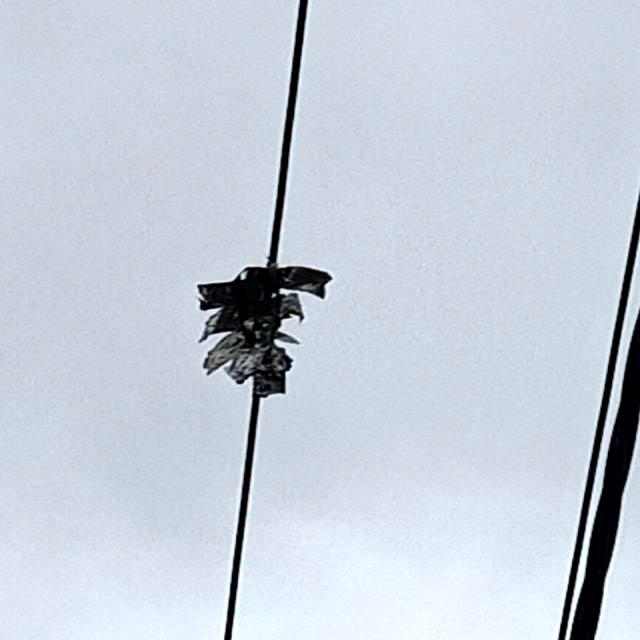
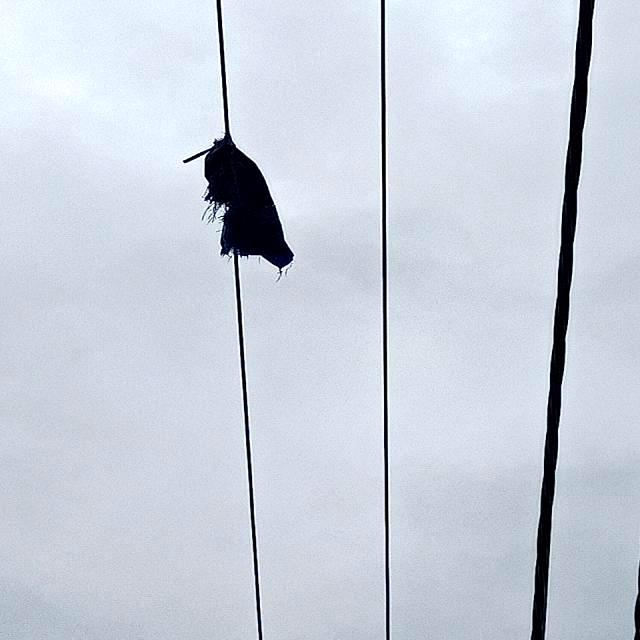
Added README and requirements

diff --git a/templates/base.html b/templates/base.html
@@ -13,14 +13,57 @@
                     <div class="brand-sub">YOLOv8xDUV V2</div>
                 </div>
             </div>
-            <nav class="nav">
-                <a class="nav-item {{ 'active' if active_page == 'live' }}" href="{{ url_for('index') }}">Live</a>
-                <a class="nav-item {{ 'active' if active_page == 'predictive' }}" href="{{ url_for('predictive') }}">Predictive</a>
-                <a class="nav-item {{ 'active' if active_page == 'settings' }}" href="{{ url_for('settings') }}">Settings</a>
-            </nav>
+
+            {% if active_page == 'live' %}
+            <div class="sidebar-actions">
+                <button class="action-btn">Filter</button>
+                <button class="action-btn active" id="overlaysBtn" type="button">Overlays</button>
+                <a class="action-btn" href="/?index={{ index }}">Rescan</a>
+                <a class="action-btn" href="{{ url_for('static', filename='export.jpg') }}" download="{{ image_name }}">Export</a>
+            </div>
+
+            <div class="weather-detail">
+                <h2>Weather Conditions</h2>
+                {% if weather.warnings %}
+                <div class="weather-warning">
+                    <span class="warning-badge">{{ weather.warning_group_type|capitalize if weather.warning_group_type else 'Active' }}</span>
+                    {{ weather.warnings[0] }}
+                </div>
+                {% endif %}
+                <div class="weather-metrics">
+                    <div class="weather-metric">
+                        <span class="weather-metric-label">Wind</span>
+                        <span class="weather-metric-value">{{ weather.wind_speed if weather.wind_speed is not none else '—' }} km/h {{ weather.wind_direction or '' }}</span>
+                    </div>
+                    <div class="weather-metric">
+                        <span class="weather-metric-label">Gust</span>
+                        <span class="weather-metric-value">{{ weather.gust_speed if weather.gust_speed is not none else '—' }} km/h</span>
+                    </div>
+                    <div class="weather-metric">
+                        <span class="weather-metric-label">Max Gust Today</span>
+                        <span class="weather-metric-value">{{ weather.max_gust_speed if weather.max_gust_speed is not none else '—' }} km/h</span>
+                    </div>
+                    <div class="weather-metric">
+                        <span class="weather-metric-label">Fire Danger</span>
+                        <span class="weather-metric-value" style="color: {{ weather.fire_danger_colour or 'inherit' }};">{{ weather.fire_danger or '—' }}</span>
+                    </div>
+                </div>
+            </div>
+            {% endif %}
         </aside>
 
         <div class="main">
+            <header class="topbar">
+                <div class="breadcrumb">
+                    {% block breadcrumb %}{% endblock %}
+                </div>
+                <nav class="top-nav">
+                    <a class="nav-item {{ 'active' if active_page == 'live' }}" href="{{ url_for('index') }}">Live</a>
+                    <a class="nav-item {{ 'active' if active_page == 'predictive' }}" href="{{ url_for('predictive') }}">Predictive</a>
+                    <a class="nav-item {{ 'active' if active_page == 'settings' }}" href="{{ url_for('settings') }}">Settings</a>
+                </nav>
+            </header>
+
             {% block main %}{% endblock %}
         </div>
     </div>

diff --git a/templates/index.html b/templates/index.html
@@ -1,21 +1,13 @@
 {% extends "base.html" %}
 
-{% block main %}
-            <header class="topbar">
-                <div class="breadcrumb">
+{% block breadcrumb %}
                     <span>duv</span>
                     <span class="sep">&rsaquo;</span>
                     <span class="crumb-current">Test Frame {{ index + 1 }}</span>
                     <span class="live-pill"><span class="live-dot"></span>LIVE</span>
-                </div>
-                <div class="topbar-actions">
-                    <button class="action-btn">Filter</button>
-                    <button class="action-btn active" id="overlaysBtn" type="button">Overlays</button>
-                    <a class="action-btn" href="/?index={{ index }}">Rescan</a>
-                    <a class="action-btn" href="{{ url_for('static', filename='export.jpg') }}" download="{{ image_name }}">Export</a>
-                </div>
-            </header>
+{% endblock %}
 
+{% block main %}
             <div class="content">
                 <section class="viewport">
                     <div class="frame-header">
@@ -111,35 +103,7 @@
                         </div>
                     </div>
 
-                    <div class="weather-detail">
-                        <h2>Weather Conditions</h2>
-                        {% if weather.warnings %}
-                        <div class="weather-warning">
-                            <span class="warning-badge">{{ weather.warning_group_type|capitalize if weather.warning_group_type else 'Active' }}</span>
-                            {{ weather.warnings[0] }}
-                        </div>
-                        {% endif %}
-                        <div class="weather-metrics">
-                            <div class="weather-metric">
-                                <span class="weather-metric-label">Wind</span>
-                                <span class="weather-metric-value">{{ weather.wind_speed if weather.wind_speed is not none else '—' }} km/h {{ weather.wind_direction or '' }}</span>
-                            </div>
-                            <div class="weather-metric">
-                                <span class="weather-metric-label">Gust</span>
-                                <span class="weather-metric-value">{{ weather.gust_speed if weather.gust_speed is not none else '—' }} km/h</span>
-                            </div>
-                            <div class="weather-metric">
-                                <span class="weather-metric-label">Max Gust Today</span>
-                                <span class="weather-metric-value">{{ weather.max_gust_speed if weather.max_gust_speed is not none else '—' }} km/h</span>
-                            </div>
-                            <div class="weather-metric">
-                                <span class="weather-metric-label">Fire Danger</span>
-                                <span class="weather-metric-value" style="color: {{ weather.fire_danger_colour or 'inherit' }};">{{ weather.fire_danger or '—' }}</span>
-                            </div>
-                        </div>
-                    </div>
-
-                    <h2>Detected Faults &mdash; {{ detections|length }} found</h2>
+                    <h2>Detected Objects &mdash; {{ detections|length }} found</h2>
                     {% if detections %}
                     <div class="fault-list">
                         {% for d in detections %}

diff --git a/static/style.css b/static/style.css
@@ -100,11 +100,32 @@ body {
 
 /* Sidebar */
 .sidebar {
-    width: 230px;
+    width: 260px;
     flex-shrink: 0;
+    height: 100vh;
+    overflow-y: auto;
     background: var(--panel-alt);
     border-right: 1px solid var(--border);
     padding: 2rem 1.25rem;
+}
+
+.sidebar-actions {
+    display: flex;
+    flex-direction: column;
+    gap: 8px;
+    margin-bottom: 1.75rem;
+    padding-bottom: 1.75rem;
+    border-bottom: 1px solid var(--border);
+}
+
+.sidebar-actions .action-btn {
+    width: 100%;
+    text-align: center;
+}
+
+.top-nav {
+    display: flex;
+    gap: 6px;
 }
 
 .brand {

diff --git a/templates/predictive.html b/templates/predictive.html
@@ -2,15 +2,13 @@
 
 {% block title %}duv — Predictive{% endblock %}
 
-{% block main %}
-            <header class="topbar">
-                <div class="breadcrumb">
+{% block breadcrumb %}
                     <span>duv</span>
                     <span class="sep">&rsaquo;</span>
                     <span class="crumb-current">Predictive Risk</span>
-                </div>
-            </header>
+{% endblock %}
 
+{% block main %}
             <div class="content">
                 <section class="viewport">
                     <div class="placeholder-panel">

diff --git a/templates/settings.html b/templates/settings.html
@@ -2,15 +2,13 @@
 
 {% block title %}duv — Settings{% endblock %}
 
-{% block main %}
-            <header class="topbar">
-                <div class="breadcrumb">
+{% block breadcrumb %}
                     <span>duv</span>
                     <span class="sep">&rsaquo;</span>
                     <span class="crumb-current">Settings</span>
-                </div>
-            </header>
+{% endblock %}
 
+{% block main %}
             <div class="content">
                 <section class="viewport">
                     <div class="placeholder-panel">

diff --git a/app.py b/app.py
@@ -15,9 +15,9 @@ test_images = sorted(os.listdir(test_images_dir))
 SEVERITY = {
     "Broken Cable": "critical",
     "Broken Insulator": "critical",
-    "Cable": "warning",
+    "Cable": "normal",
     "Insulators": "normal",
-    "Tower": "warning",
+    "Tower": "normal",
     "Vegetation": "warning",
 }
 
@@ -192,7 +192,7 @@ def index():
     else:
         most_common_category = "-"
 
-    last_scan = datetime.datetime.now().strftime("%H:%M:%S")
+    last_scan = datetime.datetime.now().strftime("%A %d %B %Y %H:%M:%S")
 
     return render_template(
         "index.html",

diff --git a/README.md b/README.md
@@ -1,0 +1,87 @@
+# DUV — Power Line Fault Inspector
+
+An AI-powered drone inspection simulator for power line assets. A fine-tuned YOLOv8 model detects faults on power line infrastructure - broken conductors, damaged insulators, vegetation encroachment - and a Flask dashboard presents the results the way a real inspection tool would: live detection overlays, severity triage, and real-world weather risk pulled from Australia's Bureau of Meteorology.
+
+Built as a portfolio project sitting at the intersection of computer vision, energy infrastructure, and dashboard design.
+
+## What it does
+
+- Runs a custom-trained YOLOv8 model over a sequence of drone-perspective power line photos, simulating a drone flying a corridor inspection
+- Draws real-time bounding boxes and confidence scores over each detected fault
+- Classifies each detection by severity (critical / warning / normal) and surfaces the day's most pressing issues
+- Cross-references detection locations against **live** Bureau of Meteorology data - active storm warnings, wind/gust speed, and bushfire danger rating and automatically escalates fault severity when a detection falls inside an active weather warning zone
+- Exports an annotated image of any frame for record-keeping
+- Ships with three switchable colour themes (Editorial, Telemetry, Daylight), persisted per user via cookie
+
+## Screenshots
+
+![Live dashboard](my_images/dashboard_screenshot.png)
+
+## Tech stack
+
+- **Model:** YOLOv8n (Ultralytics), fine-tuned via transfer learning
+- **Backend:** Flask, Jinja2 templating
+- **Frontend:** Vanilla HTML/CSS/JS — no framework, no build step
+- **Live weather data:** Bureau of Meteorology (BOM) public-facing API
+- **Dataset:** [Roboflow "84" power transmission line dataset](https://universe.roboflow.com/power-transmission-line/84-vlr8w) (CC BY 4.0)
+
+## Getting started
+
+```bash
+git clone https://github.com/mindyy12/duv-powerline-detection.git
+cd duv-powerline-detection
+
+python -m venv venv
+source venv/bin/activate        # Windows: venv\Scripts\activate
+
+pip install -r requirements.txt
+
+python app.py
+```
+
+Then open `http://localhost:5000`.
+
+The trained model weights (`runs/detect/train-2/weights/best.pt`) and the Roboflow dataset (`train/`, `valid/`, `test/`) are not included in this repo — see [Model training](#model-training) below to reproduce them, or drop in your own weights at that path.
+
+## Project structure
+
+```
+app.py                 Flask app — routes, BOM integration, severity logic
+train.py                Fine-tuning script
+detect.py                Standalone inference script (Phase 1 / ad-hoc testing)
+evaluate.py               Runs the trained model against the held-out test set
+data.yaml                 YOLO dataset config
+templates/               Jinja2 templates (base shell + Live/Predictive/Settings pages)
+static/style.css            All dashboard styling, theme tokens
+```
+
+## Model training
+
+Fine-tuned `yolov8n.pt` on 6 classes — Broken Cable, Broken Insulator, Cable, Insulators, Tower, Vegetation — for 60 epochs on CPU.
+
+| Metric | Validation | Test set |
+|---|---|---|
+| mAP50 | 0.493 | 0.540 |
+| mAP50-95 | 0.302 | 0.340 |
+
+Per-class performance varies significantly — Vegetation (mAP50 0.876) and Broken Cable (0.796) perform strongly, while Tower (0.295) has a notably high false-negative rate, largely missing detections rather than misclassifying them. See [Known limitations](#known-limitations).
+
+## Known limitations
+
+- **Only detects its 6 trained classes.** It has no concept of anything outside that list (e.g. protection equipment like relays or circuit breakers) and won't generalize to it.
+- **Doesn't generalize outside its training distribution.** It was trained almost entirely on aerial/drone-angle photos; ground-level shots of different infrastructure (tested informally) produce unreliable, low-confidence, occasionally nonsensical detections.
+- **Some source dataset images are mosaic composites** — a handful of images in the Roboflow dataset are 4-panel stitched grids rather than single clean photos, which likely hurts training and evaluation quality for the frames affected.
+- **Tower detection is weak** — the model correctly finds only ~27% of real towers in the test set (high false-negative rate), rather than confusing them with other classes.
+- **The weather/coordinate data is illustrative, not from a real drone.** Per-frame GPS coordinates are synthetically generated (walking a small simulated flight path near Sydney, NSW) so the BOM integration has real coordinates to query — the weather data returned for those coordinates is genuinely live and real, but it isn't tied to an actual drone's real-world position.
+- **The BOM API used is undocumented/unofficial** — it's the same API BOM's own consumer weather app uses, reverse-engineered by the community. It has no formal uptime or rate-limit guarantees, and its response includes a copyright notice restricting reuse — used here for personal/educational demonstration only.
+
+## Roadmap
+
+- **Predictive tab** — currently a placeholder. Planned: a live climate-risk heatmap layer combining real BOM bushfire danger ratings and wind data across a grid of points, rendered on an interactive map.
+- **Natural language query layer** — ask plain-English questions ("what's the most critical fault detected today?") grounded in the actual live detection data, backed by an LLM.
+
+## Acknowledgements
+
+- Dataset: [power-transmission-line / 84](https://universe.roboflow.com/power-transmission-line/84-vlr8w) on Roboflow Universe, CC BY 4.0
+- Weather data: Bureau of Meteorology (Australia)
+- Base model: [Ultralytics YOLOv8](https://github.com/ultralytics/ultralytics)